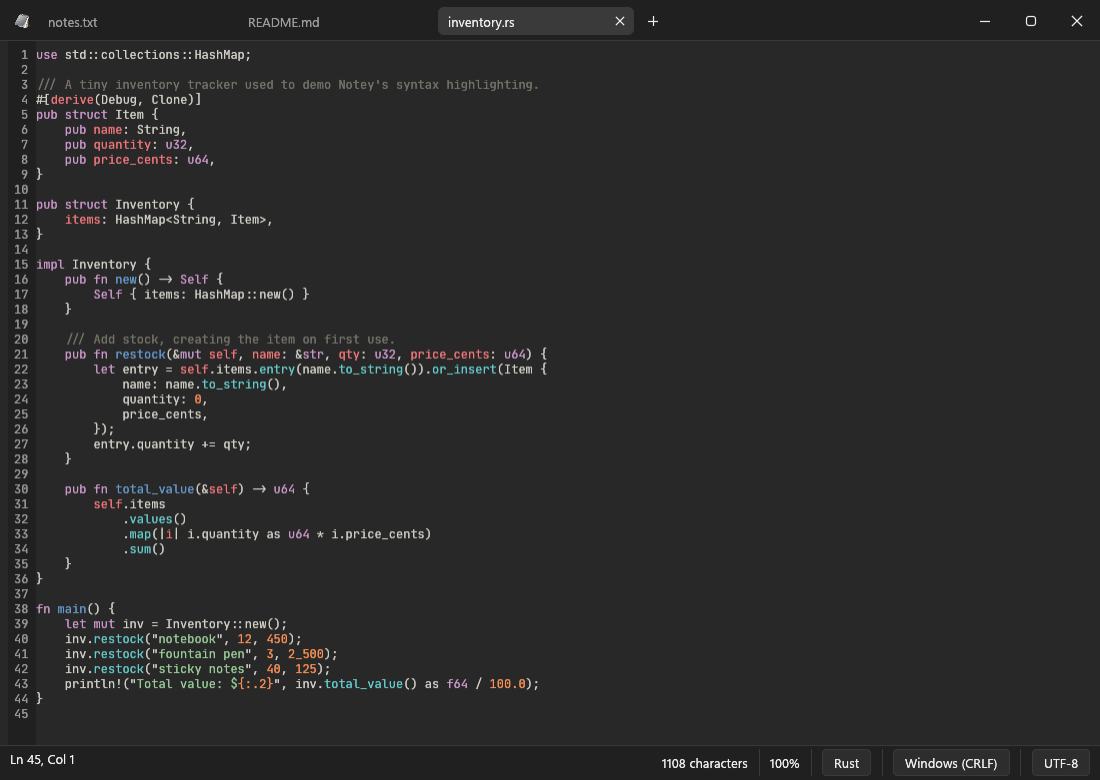
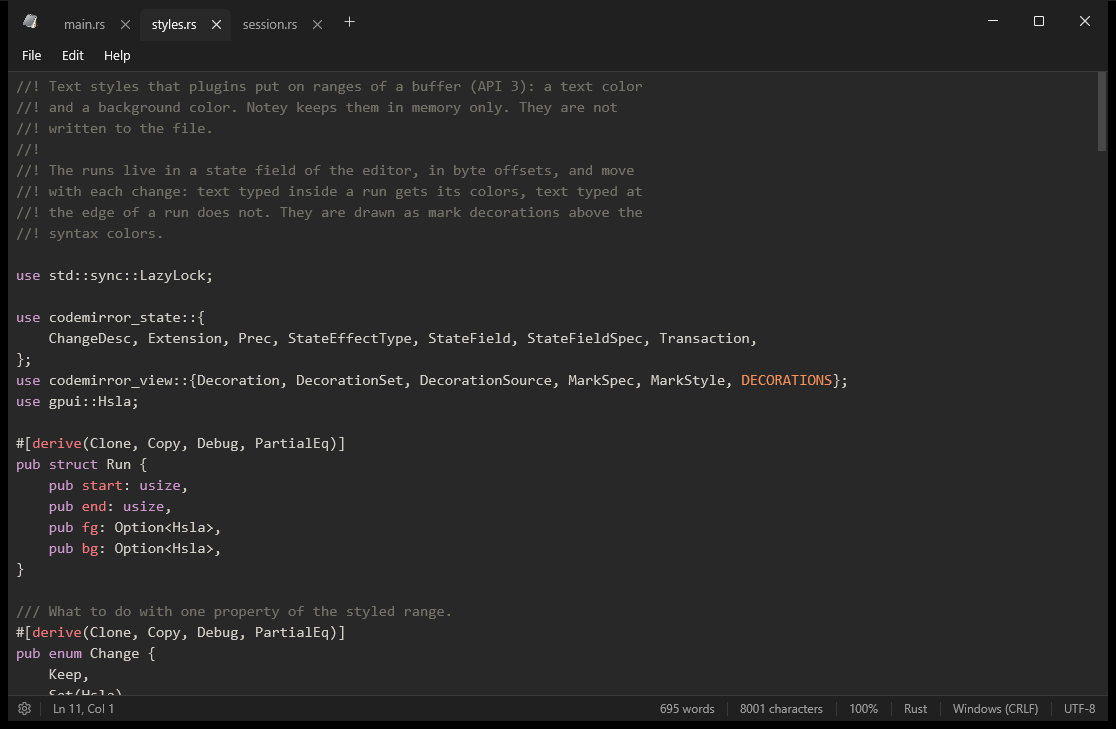
Release 0.8.0: Notey on GPUI and codemirror-rs
The GPUI rebuild becomes the main line. Rewrite the README for it with a
new screenshot, add the 0.8.0 changelog, point the design docs at main,
and bump the version. The egui version stays on archive/egui-0.7.

diff --git a/README.md b/README.md
@@ -1,13 +1,10 @@
 # Notey
 
 A native Rust notepad for Windows with dark mode, tabs, and spellcheck.
-Built with [egui/eframe](https://github.com/emilk/egui) and
-[spellbook](https://github.com/helix-editor/spellbook) (Hunspell-compatible).
-
-> **This branch (`rebuild/gpui`) rebuilds Notey on GPUI and a Rust port of
-> CodeMirror.** It is a work in progress; see
-> [docs/gpui-rebuild.md](docs/gpui-rebuild.md) for what works so far. The
-> rest of this README describes the egui version on `main`.
+Built with [GPUI](https://crates.io/crates/gpui) (the UI framework of the
+Zed editor), a Rust port of [CodeMirror 6](https://codemirror.net/) for the
+editor, and [spellbook](https://github.com/helix-editor/spellbook)
+(Hunspell-compatible) for spellcheck.
 
 ![Notey with three tabs open, showing syntax-highlighted Rust code in the dark Fluent theme](docs/screenshot.png)
 
@@ -15,8 +12,8 @@ The UI is styled after Fluent / WinUI (Windows 11 Notepad): a frameless
 window with a custom title bar containing the tab strip and caption
 buttons, Fluent dark and light palettes (`src/theme.rs`), Segoe UI
 Variable, rounded menus and dialogs, and an accent-colored selection.
-Window dragging, double-click maximize, and edge resizing are all
-implemented on top of the frameless window.
+Dialogs (save changes, reload, errors) are drawn inside the window in the
+same style.
 
 By default, Notey shows a menu bar with the File, Edit, and Help menus.
 All settings are in the Settings tab. To open it, click the gear icon at the
@@ -24,7 +21,15 @@ bottom left, or use Edit > Settings (Ctrl+,). For a more compact window,
 turn off "Show menu bar" in Settings > Appearance. Then the menus open from
 the Notey icon in the top-left of the title bar.
 
+Up to 0.7.x, Notey was built with egui. That version is kept on the
+[`archive/egui-0.7`](https://github.com/deepfold9118/notey/tree/archive/egui-0.7)
+branch.
+
 ## Run
+
+Notey depends on the crates of the CodeMirror port by path, so the
+`codemirror-rs` repository must be next to this one (`../codemirror-rs`).
+Then:
 
 ```
 cargo run --release
@@ -40,8 +45,9 @@ existing window (single-instance forwarding over a named pipe). Pass
 Closing the main window never loses work: open tabs — including unsaved
 text — are stored in a session (`%APPDATA%\Notey\data\session.json`, also
 snapshotted every ~30 s for crash safety) and restored the next time Notey
-starts. Closing an individual tab still prompts to save. Secondary
-`--new-window` windows have no session, so they prompt on close instead.
+starts. The session is also saved when Windows shuts down. Closing an
+individual tab still prompts to save. Secondary `--new-window` windows have
+no session, so they prompt on close instead.
 
 ## Features
 
@@ -68,8 +74,8 @@ starts. Closing an individual tab still prompts to save. Secondary
   Find in Files, Go To line (Ctrl+G), Insert Time/Date (F5), the commands of
   plugins, and Settings (Ctrl+,). Find Next is F3 and Find Previous is Shift+F3.
 - **Search**: regex find/replace via fancy-regex (lookaround +
-  backreferences, `$1` capture expansion in Replace), Mark All match
-  highlighting (preview editor), and **Find in Files** (Ctrl+Shift+F) —
+  backreferences, `$1` capture expansion in Replace), match case and whole
+  word, highlighting of all matches, and **Find in Files** (Ctrl+Shift+F) —
   background directory grep respecting .gitignore, with a results panel
   and click-to-open at the matching line
 - **Settings tab** (gear icon, Edit > Settings, or Ctrl+,): a list of
@@ -90,24 +96,26 @@ starts. Closing an individual tab still prompts to save. Secondary
   are flagged in the status bar)
 - **Recent Files** submenu in the File menu (last 10, persisted)
 - **Autosave** (Settings > Editor): periodically saves modified file-backed tabs
+- **Screen readers**: the window, menus, tabs, editor and status bar are
+  exposed through UI Automation (via [AccessKit](https://accesskit.dev/)),
+  so Narrator and other screen readers can read and operate them
 
 ## Editor
 
-Notey's default editor is its own virtualized widget (`src/editor.rs`),
-which replaced egui's TextEdit in 0.4.0; Settings > Editor >
-"Virtualized editor" switches back to the classic one. It lays out only the
-visible lines, so large files stay responsive, and it owns its
-cursor/selection/undo model (the foundation for multi-cursor, folding, and
-markers on the Notepad++ roadmap). For syntax highlighting, parse states are
-cached per line so only visible lines are ever parsed. It also supports word wrap
-(per-line wrap-row cache with placeholder invalidation), **multi-cursor
-editing** (Ctrl+Click
-to add cursors, Alt+drag for column/box selection, Escape to collapse; all
-cursors type/delete/paste simultaneously as one undo step), spellcheck with
-right-click suggestions, visual-row cursor navigation, undo integration for
-find/replace and plugin edits, and basic IME (caret-anchored candidate
-window, committed text insertion — no inline composition preview yet;
-the classic editor has it). Core logic is unit-tested (`cargo test`).
+The editor is [codemirror-rs](docs/codemirror-rust-design.md), a Rust port
+of CodeMirror 6's state, view, commands and search packages, drawn with
+GPUI. It lays out only the visible lines, so large files stay responsive,
+and syntax highlighting and spellcheck work on the visible lines only.
+
+- **Multiple cursors**: Ctrl+Click adds a cursor, Alt+drag makes a
+  column (box) selection, Ctrl+Alt+Up/Down adds a cursor above or below,
+  Ctrl+D selects the next occurrence of the selection, and Ctrl+Shift+L
+  selects all of them. Escape goes back to one cursor. All cursors type,
+  delete and paste together as one undo step.
+- Alt+Up/Down moves lines, Tab and Shift+Tab indent and outdent the
+  selected lines, and Ctrl+Backspace / Ctrl+Delete delete by word.
+- Undo groups typing, and find/replace and plugin edits can be undone too.
+- Word wrap, line numbers, and IME input with inline composition.
 
 ## Plugins
 
@@ -116,7 +124,8 @@ Notey keeps its core minimal; everything else is a plugin, managed from
 
 - **Features** — Spellcheck, Markdown Tools (Ctrl+B/I/E/K formatting, list
   continuation, rendered and side-by-side preview), Word Count, Autocorrect,
-  and Export & Print (HTML export, formatted printing via your browser).
+  Text Color, and Export & Print (HTML export, formatted printing via your
+  browser).
 - **Languages** — one spellcheck dictionary each (16 available: English
   variants, Spanish, French, German, Italian, Portuguese, Dutch, Polish,
   Swedish, Danish, Russian, Ukrainian). A word is accepted if any enabled
@@ -164,8 +173,8 @@ latest exe.
 
 - Print works on saved files: it hands the file to the default `.txt` print
   handler via the shell Print verb.
-- The spellchecker skips words with digits, URLs/emails (heuristic), and is
-  automatically disabled for files larger than 512 KB.
+- The spellchecker skips words with digits, URLs/emails (heuristic), and
+  ordinals such as "2nd".
 
 ## Download
 

diff --git a/CHANGELOG.md b/CHANGELOG.md
@@ -6,6 +6,34 @@ uses [Semantic Versioning](https://semver.org/).
 
 ## [Unreleased]
 
+## [0.8.0] - 2026-10-31
+
+### Changed
+- Notey is rebuilt on GPUI (the UI framework of the Zed editor) and a Rust
+  port of CodeMirror 6. It looks and works the same as 0.7.0, and all
+  plugins, themes, settings and sessions carry over. Drawing is done on the
+  GPU, so scrolling and typing in large files are faster.
+- The dialogs (save changes, reload, errors) are drawn in the Notey window
+  in the Fluent style, not as Windows message boxes.
+- Spellcheck and syntax highlighting work on the visible lines only, so
+  spellcheck is no longer turned off for files over 512 KB.
+- Tall menus scroll, and submenus open next to them.
+
+### Added
+- CodeMirror editing: Ctrl+D selects the next occurrence of the selection,
+  Ctrl+Shift+L selects all of them, Ctrl+Alt+Up/Down adds a cursor above or
+  below, and Alt+Up/Down moves lines. Ctrl+Click and Alt+drag still add
+  cursors and box selections.
+- IME input shows the text being composed in the line.
+
+### Fixed
+- Ordinals such as "2nd" are no longer marked as misspelled.
+
+### Removed
+- The "Virtualized editor" setting and the classic editor. There is one
+  editor now.
+- The egui version is kept on the `archive/egui-0.7` branch.
+
 ## [0.7.0] - 2026-10-24
 
 ### Added
@@ -229,7 +257,8 @@ First public release.
 - Initial notepad: dark mode, tabs, Hunspell spellcheck, find/replace,
   encodings and line endings, zoom, printing.
 
-[Unreleased]: https://github.com/deepfold9118/notey/compare/v0.7.0...HEAD
+[Unreleased]: https://github.com/deepfold9118/notey/compare/v0.8.0...HEAD
+[0.8.0]: https://github.com/deepfold9118/notey/compare/v0.7.0...v0.8.0
 [0.7.0]: https://github.com/deepfold9118/notey/compare/v0.6.0...v0.7.0
 [0.6.0]: https://github.com/deepfold9118/notey/compare/v0.5.6...v0.6.0
 [0.5.6]: https://github.com/deepfold9118/notey/compare/v0.5.5...v0.5.6

diff --git a/docs/codemirror-rust-design.md b/docs/codemirror-rust-design.md
@@ -371,11 +371,10 @@ a general gutter API, and accessibility. Notey itself is then rebuilt on
 GPUI around this view (instead of the "experimental editor" switch that
 §6 planned for the egui app).
 
-The Notey rebuild has started on the `rebuild/gpui` branch: a GPUI app shell
-with Notey's title bar, tabs, menus, status bar, Settings tab, files,
-session and single-instance forwarding, one `EditorView` per tab. Its
-progress and the features still to port are in
-[gpui-rebuild.md](gpui-rebuild.md).
+The Notey rebuild is done: since 0.8.0, `main` is a GPUI app with Notey's
+title bar, tabs, menus, status bar, Settings tab, files, session and
+single-instance forwarding, one `EditorView` per tab. Its modules are
+listed in [gpui-rebuild.md](gpui-rebuild.md).
 
 `@codemirror/search` is ported as `codemirror-search` (cursors, queries,
 find and replace commands, match highlighting, key bindings; the host

diff --git a/docs/gpui-rebuild.md b/docs/gpui-rebuild.md
@@ -1,9 +1,9 @@
 # Rebuilding Notey on GPUI and codemirror-rs
 
-The `rebuild/gpui` branch rebuilds Notey on [GPUI](https://crates.io/crates/gpui)
-(Zed's UI framework) and the Rust port of CodeMirror 6 in
-`D:\Projects\codemirror-rs` (see [codemirror-rust-design.md](codemirror-rust-design.md)
-§10). The egui version stays on `main` until the rebuild reaches parity.
+Since 0.8.0, Notey is built on [GPUI](https://crates.io/crates/gpui)
+(Zed's UI framework) and the Rust port of CodeMirror 6 in `codemirror-rs`
+(see [codemirror-rust-design.md](codemirror-rust-design.md) §10). The egui
+version (0.7.x) is kept on the `archive/egui-0.7` branch.
 
 Build: `cargo build` needs `codemirror-rs` next to this repository
 (`../codemirror-rs`), because Notey depends on its crates by path.
